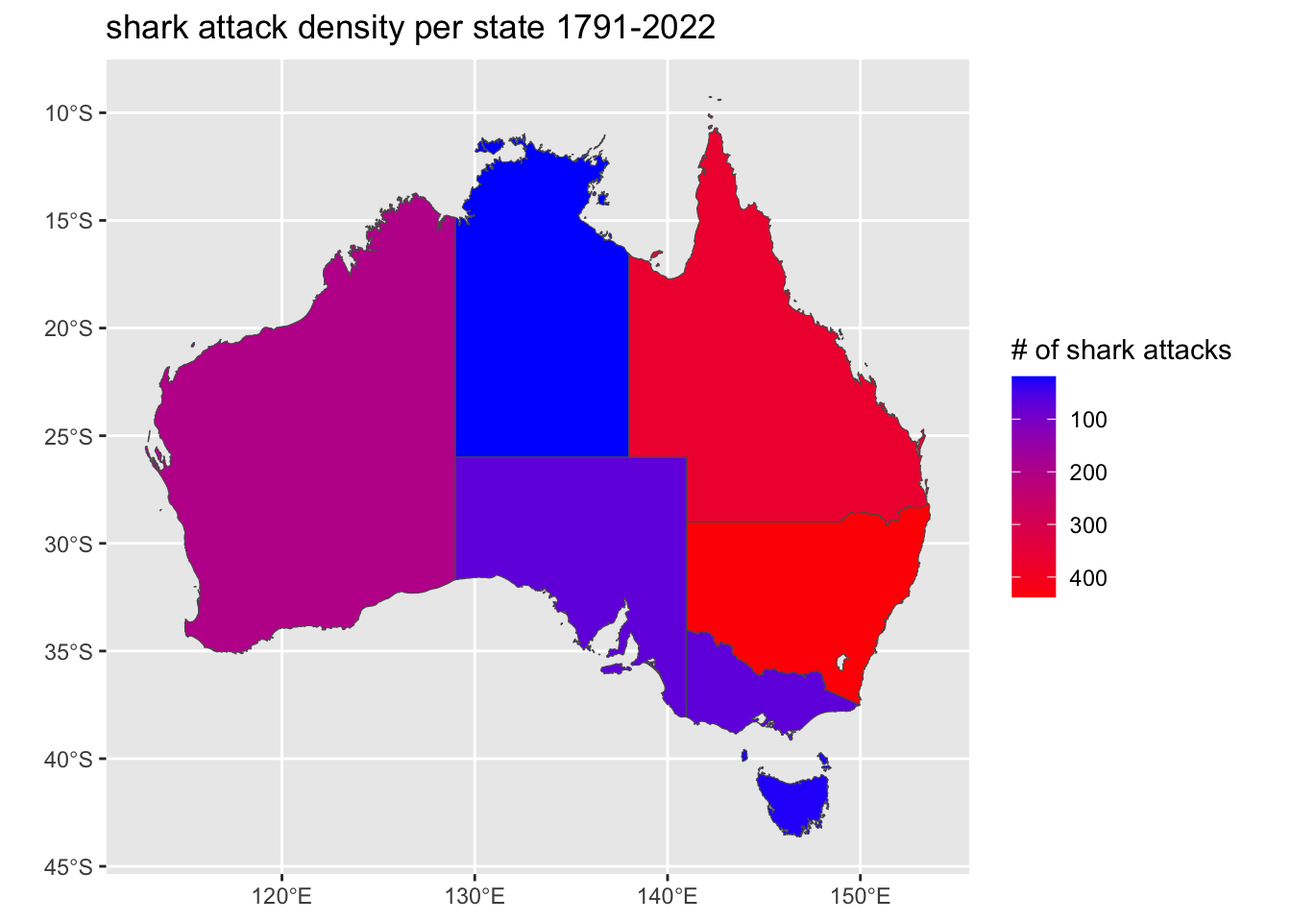
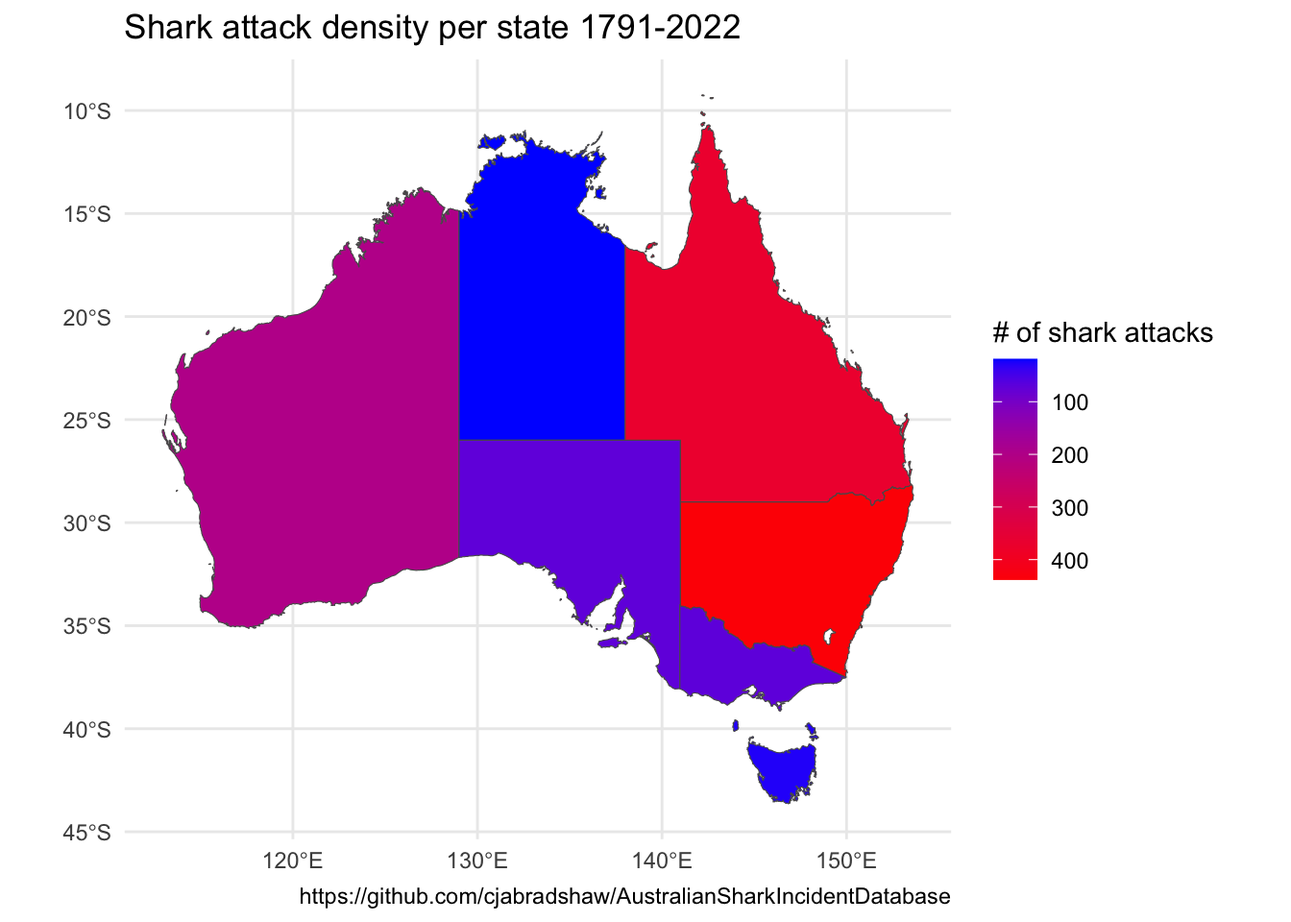
Built site for gh-pages

diff --git a/bw/soloproject.html b/bw/soloproject.html
@@ -213,37 +213,9 @@ pre > code.sourceCode > span > a:first-child::before { text-decoration: underlin
 
 
 </header><div class="cell">
-<details class="code-fold"><summary>Code</summary><div class="sourceCode cell-code" id="cb1"><pre class="sourceCode numberSource r number-lines code-with-copy"><code class="sourceCode r"><span id="cb1-1"><a href="#cb1-1"></a><span class="fu">library</span>(tidyverse)</span></code><button title="Copy to Clipboard" class="code-copy-button"><i class="bi"></i></button></pre></div>
-</details><div class="cell-output cell-output-stderr">
-<pre><code>── Attaching core tidyverse packages ──────────────────────── tidyverse 2.0.0 ──
-✔ dplyr     1.1.4     ✔ readr     2.1.5
-✔ forcats   1.0.0     ✔ stringr   1.5.1
-✔ ggplot2   3.5.1     ✔ tibble    3.2.1
-✔ lubridate 1.9.4     ✔ tidyr     1.3.1
-✔ purrr     1.0.2     
-── Conflicts ────────────────────────────────────────── tidyverse_conflicts() ──
-✖ dplyr::filter() masks stats::filter()
-✖ dplyr::lag()    masks stats::lag()
-ℹ Use the conflicted package (&lt;http://conflicted.r-lib.org/&gt;) to force all conflicts to become errors</code></pre>
-</div>
-<details class="code-fold"><summary>Code</summary><div class="sourceCode cell-code" id="cb3"><pre class="sourceCode numberSource r number-lines code-with-copy"><code class="sourceCode r"><span id="cb3-1"><a href="#cb3-1"></a>shark_attack_data <span class="ot">&lt;-</span> <span class="fu">read_tsv</span>(<span class="st">"../data/locdat2.txt"</span>)</span></code><button title="Copy to Clipboard" class="code-copy-button"><i class="bi"></i></button></pre></div>
-</details><div class="cell-output cell-output-stderr">
-<pre><code>Warning: One or more parsing issues, call `problems()` on your data frame for details,
-e.g.:
-  dat &lt;- vroom(...)
-  problems(dat)</code></pre>
-</div>
-<div class="cell-output cell-output-stderr">
-<pre><code>Rows: 1197 Columns: 18
-── Column specification ────────────────────────────────────────────────────────
-Delimiter: "\t"
-chr (10): Victim.injury, State, Location, Shark.common.name, Provoked.unprov...
-dbl  (8): Incident.day, Incident.month, Incident.year, Latitude, Longitude, ...
-
-ℹ Use `spec()` to retrieve the full column specification for this data.
-ℹ Specify the column types or set `show_col_types = FALSE` to quiet this message.</code></pre>
-</div>
-<details class="code-fold"><summary>Code</summary><div class="sourceCode cell-code" id="cb6"><pre class="sourceCode numberSource r number-lines code-with-copy"><code class="sourceCode r"><span id="cb6-1"><a href="#cb6-1"></a><span class="fu">problems</span>(shark_attack_data)</span></code><button title="Copy to Clipboard" class="code-copy-button"><i class="bi"></i></button></pre></div>
+<details class="code-fold"><summary>Code</summary><div class="sourceCode cell-code" id="cb1"><pre class="sourceCode numberSource r number-lines code-with-copy"><code class="sourceCode r"><span id="cb1-1"><a href="#cb1-1"></a><span class="fu">library</span>(tidyverse)</span>
+<span id="cb1-2"><a href="#cb1-2"></a>shark_attack_data <span class="ot">&lt;-</span> <span class="fu">read_tsv</span>(<span class="st">"../data/locdat2.txt"</span>)</span>
+<span id="cb1-3"><a href="#cb1-3"></a><span class="fu">problems</span>(shark_attack_data)</span></code><button title="Copy to Clipboard" class="code-copy-button"><i class="bi"></i></button></pre></div>
 </details><div class="cell-output cell-output-stdout">
 <pre><code># A tibble: 8 × 5
     row   col expected actual              file 
@@ -259,42 +231,44 @@ dbl  (8): Incident.day, Incident.month, Incident.year, Latitude, Longitude, ...
 </div>
 </div>
 <div class="cell">
-<details class="code-fold"><summary>Code</summary><div class="sourceCode cell-code" id="cb8"><pre class="sourceCode numberSource r number-lines code-with-copy"><code class="sourceCode r"><span id="cb8-1"><a href="#cb8-1"></a><span class="fu">library</span>(rnaturalearth)</span>
-<span id="cb8-2"><a href="#cb8-2"></a>australia_shapes <span class="ot">&lt;-</span> <span class="fu">ne_states</span>(</span>
-<span id="cb8-3"><a href="#cb8-3"></a>  <span class="at">country =</span> <span class="st">"Australia"</span>,</span>
-<span id="cb8-4"><a href="#cb8-4"></a>  <span class="at">returnclass =</span> <span class="fu">c</span>(<span class="st">"sf"</span>)</span>
-<span id="cb8-5"><a href="#cb8-5"></a>)</span></code><button title="Copy to Clipboard" class="code-copy-button"><i class="bi"></i></button></pre></div>
+<details class="code-fold"><summary>Code</summary><div class="sourceCode cell-code" id="cb3"><pre class="sourceCode numberSource r number-lines code-with-copy"><code class="sourceCode r"><span id="cb3-1"><a href="#cb3-1"></a><span class="fu">library</span>(rnaturalearth)</span>
+<span id="cb3-2"><a href="#cb3-2"></a>australia_shapes <span class="ot">&lt;-</span> <span class="fu">ne_states</span>(</span>
+<span id="cb3-3"><a href="#cb3-3"></a>  <span class="at">country =</span> <span class="st">"Australia"</span>,</span>
+<span id="cb3-4"><a href="#cb3-4"></a>  <span class="at">returnclass =</span> <span class="fu">c</span>(<span class="st">"sf"</span>)</span>
+<span id="cb3-5"><a href="#cb3-5"></a>)</span></code><button title="Copy to Clipboard" class="code-copy-button"><i class="bi"></i></button></pre></div>
 </details>
 </div>
 <div class="cell">
-<details class="code-fold"><summary>Code</summary><div class="sourceCode cell-code" id="cb9"><pre class="sourceCode numberSource r number-lines code-with-copy"><code class="sourceCode r"><span id="cb9-1"><a href="#cb9-1"></a>australia_shapes <span class="ot">&lt;-</span> australia_shapes <span class="sc">|&gt;</span></span>
-<span id="cb9-2"><a href="#cb9-2"></a>  <span class="fu">mutate</span>(<span class="at">iso_3166_2 =</span> <span class="fu">str_replace</span>(iso_3166_2, <span class="st">"AU-"</span>, <span class="st">""</span>)) <span class="sc">|&gt;</span></span>
-<span id="cb9-3"><a href="#cb9-3"></a>  <span class="fu">filter</span>(iso_3166_2 <span class="sc">!=</span> <span class="st">"X03~"</span>, iso_3166_2 <span class="sc">!=</span> <span class="st">"X02~"</span>) <span class="sc">|&gt;</span></span>
-<span id="cb9-4"><a href="#cb9-4"></a>  <span class="fu">filter</span>(adm1_code <span class="sc">!=</span> <span class="st">"AUS-2659"</span>, adm1_code <span class="sc">!=</span> <span class="st">"AUS-2653"</span>) <span class="sc">|&gt;</span></span>
-<span id="cb9-5"><a href="#cb9-5"></a>  <span class="fu">select</span>(iso_3166_2, geometry)</span></code><button title="Copy to Clipboard" class="code-copy-button"><i class="bi"></i></button></pre></div>
+<details class="code-fold"><summary>Code</summary><div class="sourceCode cell-code" id="cb4"><pre class="sourceCode numberSource r number-lines code-with-copy"><code class="sourceCode r"><span id="cb4-1"><a href="#cb4-1"></a>australia_shapes <span class="ot">&lt;-</span> australia_shapes <span class="sc">|&gt;</span></span>
+<span id="cb4-2"><a href="#cb4-2"></a>  <span class="fu">mutate</span>(<span class="at">iso_3166_2 =</span> <span class="fu">str_replace</span>(iso_3166_2, <span class="st">"AU-"</span>, <span class="st">""</span>)) <span class="sc">|&gt;</span></span>
+<span id="cb4-3"><a href="#cb4-3"></a>  <span class="fu">filter</span>(iso_3166_2 <span class="sc">!=</span> <span class="st">"X03~"</span>, iso_3166_2 <span class="sc">!=</span> <span class="st">"X02~"</span>) <span class="sc">|&gt;</span></span>
+<span id="cb4-4"><a href="#cb4-4"></a>  <span class="fu">filter</span>(adm1_code <span class="sc">!=</span> <span class="st">"AUS-2659"</span>, adm1_code <span class="sc">!=</span> <span class="st">"AUS-2653"</span>) <span class="sc">|&gt;</span></span>
+<span id="cb4-5"><a href="#cb4-5"></a>  <span class="fu">select</span>(iso_3166_2, geometry)</span></code><button title="Copy to Clipboard" class="code-copy-button"><i class="bi"></i></button></pre></div>
 </details>
 </div>
 <div class="cell">
-<details class="code-fold"><summary>Code</summary><div class="sourceCode cell-code" id="cb10"><pre class="sourceCode numberSource r number-lines code-with-copy"><code class="sourceCode r"><span id="cb10-1"><a href="#cb10-1"></a>state_shark_attacks <span class="ot">&lt;-</span> shark_attack_data <span class="sc">|&gt;</span></span>
-<span id="cb10-2"><a href="#cb10-2"></a> <span class="fu">count</span>(State) <span class="sc">|&gt;</span></span>
-<span id="cb10-3"><a href="#cb10-3"></a>  <span class="fu">filter</span>(<span class="sc">!</span><span class="fu">is.na</span>(State))</span></code><button title="Copy to Clipboard" class="code-copy-button"><i class="bi"></i></button></pre></div>
+<details class="code-fold"><summary>Code</summary><div class="sourceCode cell-code" id="cb5"><pre class="sourceCode numberSource r number-lines code-with-copy"><code class="sourceCode r"><span id="cb5-1"><a href="#cb5-1"></a>state_shark_attacks <span class="ot">&lt;-</span> shark_attack_data <span class="sc">|&gt;</span></span>
+<span id="cb5-2"><a href="#cb5-2"></a> <span class="fu">count</span>(State) <span class="sc">|&gt;</span></span>
+<span id="cb5-3"><a href="#cb5-3"></a>  <span class="fu">filter</span>(<span class="sc">!</span><span class="fu">is.na</span>(State))</span></code><button title="Copy to Clipboard" class="code-copy-button"><i class="bi"></i></button></pre></div>
 </details>
 </div>
 <div class="cell">
-<details class="code-fold"><summary>Code</summary><div class="sourceCode cell-code" id="cb11"><pre class="sourceCode numberSource r number-lines code-with-copy"><code class="sourceCode r"><span id="cb11-1"><a href="#cb11-1"></a>final_data_set <span class="ot">&lt;-</span> australia_shapes <span class="sc">|&gt;</span></span>
-<span id="cb11-2"><a href="#cb11-2"></a>   <span class="fu">left_join</span>(state_shark_attacks, <span class="fu">join_by</span>(iso_3166_2 <span class="sc">==</span> State))</span></code><button title="Copy to Clipboard" class="code-copy-button"><i class="bi"></i></button></pre></div>
+<details class="code-fold"><summary>Code</summary><div class="sourceCode cell-code" id="cb6"><pre class="sourceCode numberSource r number-lines code-with-copy"><code class="sourceCode r"><span id="cb6-1"><a href="#cb6-1"></a>final_data_set <span class="ot">&lt;-</span> australia_shapes <span class="sc">|&gt;</span></span>
+<span id="cb6-2"><a href="#cb6-2"></a>   <span class="fu">left_join</span>(state_shark_attacks, <span class="fu">join_by</span>(iso_3166_2 <span class="sc">==</span> State))</span></code><button title="Copy to Clipboard" class="code-copy-button"><i class="bi"></i></button></pre></div>
 </details>
 </div>
 <div class="cell">
-<details class="code-fold"><summary>Code</summary><div class="sourceCode cell-code" id="cb12"><pre class="sourceCode numberSource r number-lines code-with-copy"><code class="sourceCode r"><span id="cb12-1"><a href="#cb12-1"></a><span class="fu">ggplot</span>() <span class="sc">+</span></span>
-<span id="cb12-2"><a href="#cb12-2"></a>  <span class="fu">geom_sf</span>(<span class="at">data =</span> final_data_set,</span>
-<span id="cb12-3"><a href="#cb12-3"></a>          <span class="fu">aes</span>(<span class="at">fill =</span> n)) <span class="sc">+</span></span>
-<span id="cb12-4"><a href="#cb12-4"></a>  <span class="fu">scale_fill_gradient</span>( <span class="at">low =</span> <span class="st">"red"</span>, <span class="at">high =</span> <span class="st">"blue"</span>, <span class="at">trans =</span> <span class="st">"reverse"</span>) <span class="sc">+</span></span>
-<span id="cb12-5"><a href="#cb12-5"></a> </span>
-<span id="cb12-6"><a href="#cb12-6"></a> <span class="fu">labs</span>(</span>
-<span id="cb12-7"><a href="#cb12-7"></a>    <span class="at">fill =</span> <span class="st">"# of shark attacks"</span>,</span>
-<span id="cb12-8"><a href="#cb12-8"></a>    <span class="at">title =</span> <span class="st">"shark attack density per state 1791-2022"</span></span>
-<span id="cb12-9"><a href="#cb12-9"></a>  )</span></code><button title="Copy to Clipboard" class="code-copy-button"><i class="bi"></i></button></pre></div>
+<details class="code-fold"><summary>Code</summary><div class="sourceCode cell-code" id="cb7"><pre class="sourceCode numberSource r number-lines code-with-copy"><code class="sourceCode r"><span id="cb7-1"><a href="#cb7-1"></a><span class="fu">ggplot</span>() <span class="sc">+</span></span>
+<span id="cb7-2"><a href="#cb7-2"></a>  <span class="fu">geom_sf</span>(<span class="at">data =</span> final_data_set,</span>
+<span id="cb7-3"><a href="#cb7-3"></a>          <span class="fu">aes</span>(<span class="at">fill =</span> n)) <span class="sc">+</span></span>
+<span id="cb7-4"><a href="#cb7-4"></a>  <span class="fu">scale_fill_gradient</span>( <span class="at">low =</span> <span class="st">"red"</span>, <span class="at">high =</span> <span class="st">"blue"</span>, <span class="at">trans =</span> <span class="st">"reverse"</span>) <span class="sc">+</span></span>
+<span id="cb7-5"><a href="#cb7-5"></a> </span>
+<span id="cb7-6"><a href="#cb7-6"></a> <span class="fu">labs</span>(</span>
+<span id="cb7-7"><a href="#cb7-7"></a>    <span class="at">fill =</span> <span class="st">"# of shark attacks"</span>,</span>
+<span id="cb7-8"><a href="#cb7-8"></a>    <span class="at">title =</span> <span class="st">"Shark attack density per state 1791-2022"</span>,</span>
+<span id="cb7-9"><a href="#cb7-9"></a>    <span class="at">caption =</span> <span class="st">"https://github.com/cjabradshaw/AustralianSharkIncidentDatabase"</span></span>
+<span id="cb7-10"><a href="#cb7-10"></a>  ) <span class="sc">+</span></span>
+<span id="cb7-11"><a href="#cb7-11"></a>  <span class="fu">theme_minimal</span>()</span></code><button title="Copy to Clipboard" class="code-copy-button"><i class="bi"></i></button></pre></div>
 </details><div class="cell-output-display">
 <div>
 <figure class="figure"><p><img src="soloproject_files/figure-html/unnamed-chunk-6-1.png" class="img-fluid figure-img" width="672"></p>
@@ -934,60 +908,62 @@ window.document.addEventListener("DOMContentLoaded", function (event) {
   <div class="nav-page nav-page-next">
   </div>
 </nav><div class="modal fade" id="quarto-embedded-source-code-modal" tabindex="-1" aria-labelledby="quarto-embedded-source-code-modal-label" aria-hidden="true"><div class="modal-dialog modal-dialog-scrollable"><div class="modal-content"><div class="modal-header"><h5 class="modal-title" id="quarto-embedded-source-code-modal-label">Source Code</h5><button class="btn-close" data-bs-dismiss="modal"></button></div><div class="modal-body"><div class="">
-<div class="sourceCode" id="cb13" data-shortcodes="false"><pre class="sourceCode numberSource markdown number-lines code-with-copy"><code class="sourceCode markdown"><span id="cb13-1"><a href="#cb13-1"></a><span class="co">---</span></span>
-<span id="cb13-2"><a href="#cb13-2"></a><span class="an">title:</span><span class="co"> "soloproject"</span></span>
-<span id="cb13-3"><a href="#cb13-3"></a><span class="an">format:</span><span class="co"> html</span></span>
-<span id="cb13-4"><a href="#cb13-4"></a><span class="co">---</span></span>
-<span id="cb13-5"><a href="#cb13-5"></a></span>
-<span id="cb13-8"><a href="#cb13-8"></a><span class="in">```{r}</span></span>
-<span id="cb13-9"><a href="#cb13-9"></a><span class="fu">library</span>(tidyverse)</span>
-<span id="cb13-10"><a href="#cb13-10"></a>shark_attack_data <span class="ot">&lt;-</span> <span class="fu">read_tsv</span>(<span class="st">"../data/locdat2.txt"</span>)</span>
-<span id="cb13-11"><a href="#cb13-11"></a><span class="fu">problems</span>(shark_attack_data)</span>
-<span id="cb13-12"><a href="#cb13-12"></a><span class="in">```</span></span>
-<span id="cb13-13"><a href="#cb13-13"></a></span>
-<span id="cb13-14"><a href="#cb13-14"></a></span>
-<span id="cb13-17"><a href="#cb13-17"></a><span class="in">```{r}</span></span>
-<span id="cb13-18"><a href="#cb13-18"></a><span class="fu">library</span>(rnaturalearth)</span>
-<span id="cb13-19"><a href="#cb13-19"></a>australia_shapes <span class="ot">&lt;-</span> <span class="fu">ne_states</span>(</span>
-<span id="cb13-20"><a href="#cb13-20"></a>  <span class="at">country =</span> <span class="st">"Australia"</span>,</span>
-<span id="cb13-21"><a href="#cb13-21"></a>  <span class="at">returnclass =</span> <span class="fu">c</span>(<span class="st">"sf"</span>)</span>
-<span id="cb13-22"><a href="#cb13-22"></a>)</span>
-<span id="cb13-23"><a href="#cb13-23"></a></span>
-<span id="cb13-24"><a href="#cb13-24"></a></span>
-<span id="cb13-25"><a href="#cb13-25"></a><span class="in">```</span></span>
-<span id="cb13-26"><a href="#cb13-26"></a></span>
-<span id="cb13-27"><a href="#cb13-27"></a></span>
-<span id="cb13-30"><a href="#cb13-30"></a><span class="in">```{r}</span></span>
-<span id="cb13-31"><a href="#cb13-31"></a>australia_shapes <span class="ot">&lt;-</span> australia_shapes <span class="sc">|&gt;</span></span>
-<span id="cb13-32"><a href="#cb13-32"></a>  <span class="fu">mutate</span>(<span class="at">iso_3166_2 =</span> <span class="fu">str_replace</span>(iso_3166_2, <span class="st">"AU-"</span>, <span class="st">""</span>)) <span class="sc">|&gt;</span></span>
-<span id="cb13-33"><a href="#cb13-33"></a>  <span class="fu">filter</span>(iso_3166_2 <span class="sc">!=</span> <span class="st">"X03~"</span>, iso_3166_2 <span class="sc">!=</span> <span class="st">"X02~"</span>) <span class="sc">|&gt;</span></span>
-<span id="cb13-34"><a href="#cb13-34"></a>  <span class="fu">filter</span>(adm1_code <span class="sc">!=</span> <span class="st">"AUS-2659"</span>, adm1_code <span class="sc">!=</span> <span class="st">"AUS-2653"</span>) <span class="sc">|&gt;</span></span>
-<span id="cb13-35"><a href="#cb13-35"></a>  <span class="fu">select</span>(iso_3166_2, geometry)</span>
-<span id="cb13-36"><a href="#cb13-36"></a></span>
-<span id="cb13-37"><a href="#cb13-37"></a><span class="in">```</span></span>
-<span id="cb13-38"><a href="#cb13-38"></a></span>
-<span id="cb13-41"><a href="#cb13-41"></a><span class="in">```{r}</span></span>
-<span id="cb13-42"><a href="#cb13-42"></a>state_shark_attacks <span class="ot">&lt;-</span> shark_attack_data <span class="sc">|&gt;</span></span>
-<span id="cb13-43"><a href="#cb13-43"></a> <span class="fu">count</span>(State) <span class="sc">|&gt;</span></span>
-<span id="cb13-44"><a href="#cb13-44"></a>  <span class="fu">filter</span>(<span class="sc">!</span><span class="fu">is.na</span>(State))</span>
-<span id="cb13-45"><a href="#cb13-45"></a><span class="in">```</span></span>
-<span id="cb13-46"><a href="#cb13-46"></a></span>
-<span id="cb13-49"><a href="#cb13-49"></a><span class="in">```{r}</span></span>
-<span id="cb13-50"><a href="#cb13-50"></a>final_data_set <span class="ot">&lt;-</span> australia_shapes <span class="sc">|&gt;</span></span>
-<span id="cb13-51"><a href="#cb13-51"></a>   <span class="fu">left_join</span>(state_shark_attacks, <span class="fu">join_by</span>(iso_3166_2 <span class="sc">==</span> State))</span>
-<span id="cb13-52"><a href="#cb13-52"></a><span class="in">```</span></span>
-<span id="cb13-53"><a href="#cb13-53"></a></span>
-<span id="cb13-56"><a href="#cb13-56"></a><span class="in">```{r}</span></span>
-<span id="cb13-57"><a href="#cb13-57"></a><span class="fu">ggplot</span>() <span class="sc">+</span></span>
-<span id="cb13-58"><a href="#cb13-58"></a>  <span class="fu">geom_sf</span>(<span class="at">data =</span> final_data_set,</span>
-<span id="cb13-59"><a href="#cb13-59"></a>          <span class="fu">aes</span>(<span class="at">fill =</span> n)) <span class="sc">+</span></span>
-<span id="cb13-60"><a href="#cb13-60"></a>  <span class="fu">scale_fill_gradient</span>( <span class="at">low =</span> <span class="st">"red"</span>, <span class="at">high =</span> <span class="st">"blue"</span>, <span class="at">trans =</span> <span class="st">"reverse"</span>) <span class="sc">+</span></span>
-<span id="cb13-61"><a href="#cb13-61"></a> </span>
-<span id="cb13-62"><a href="#cb13-62"></a> <span class="fu">labs</span>(</span>
-<span id="cb13-63"><a href="#cb13-63"></a>    <span class="at">fill =</span> <span class="st">"# of shark attacks"</span>,</span>
-<span id="cb13-64"><a href="#cb13-64"></a>    <span class="at">title =</span> <span class="st">"shark attack density per state 1791-2022"</span></span>
-<span id="cb13-65"><a href="#cb13-65"></a>  )</span>
-<span id="cb13-66"><a href="#cb13-66"></a><span class="in">```</span></span>
+<div class="sourceCode" id="cb8" data-shortcodes="false"><pre class="sourceCode numberSource markdown number-lines code-with-copy"><code class="sourceCode markdown"><span id="cb8-1"><a href="#cb8-1"></a><span class="co">---</span></span>
+<span id="cb8-2"><a href="#cb8-2"></a><span class="an">title:</span><span class="co"> "soloproject"</span></span>
+<span id="cb8-3"><a href="#cb8-3"></a><span class="an">format:</span><span class="co"> html</span></span>
+<span id="cb8-4"><a href="#cb8-4"></a><span class="co">---</span></span>
+<span id="cb8-5"><a href="#cb8-5"></a></span>
+<span id="cb8-8"><a href="#cb8-8"></a><span class="in">```{r}</span></span>
+<span id="cb8-9"><a href="#cb8-9"></a><span class="fu">library</span>(tidyverse)</span>
+<span id="cb8-10"><a href="#cb8-10"></a>shark_attack_data <span class="ot">&lt;-</span> <span class="fu">read_tsv</span>(<span class="st">"../data/locdat2.txt"</span>)</span>
+<span id="cb8-11"><a href="#cb8-11"></a><span class="fu">problems</span>(shark_attack_data)</span>
+<span id="cb8-12"><a href="#cb8-12"></a><span class="in">```</span></span>
+<span id="cb8-13"><a href="#cb8-13"></a></span>
+<span id="cb8-14"><a href="#cb8-14"></a></span>
+<span id="cb8-17"><a href="#cb8-17"></a><span class="in">```{r}</span></span>
+<span id="cb8-18"><a href="#cb8-18"></a><span class="fu">library</span>(rnaturalearth)</span>
+<span id="cb8-19"><a href="#cb8-19"></a>australia_shapes <span class="ot">&lt;-</span> <span class="fu">ne_states</span>(</span>
+<span id="cb8-20"><a href="#cb8-20"></a>  <span class="at">country =</span> <span class="st">"Australia"</span>,</span>
+<span id="cb8-21"><a href="#cb8-21"></a>  <span class="at">returnclass =</span> <span class="fu">c</span>(<span class="st">"sf"</span>)</span>
+<span id="cb8-22"><a href="#cb8-22"></a>)</span>
+<span id="cb8-23"><a href="#cb8-23"></a></span>
+<span id="cb8-24"><a href="#cb8-24"></a></span>
+<span id="cb8-25"><a href="#cb8-25"></a><span class="in">```</span></span>
+<span id="cb8-26"><a href="#cb8-26"></a></span>
+<span id="cb8-27"><a href="#cb8-27"></a></span>
+<span id="cb8-30"><a href="#cb8-30"></a><span class="in">```{r}</span></span>
+<span id="cb8-31"><a href="#cb8-31"></a>australia_shapes <span class="ot">&lt;-</span> australia_shapes <span class="sc">|&gt;</span></span>
+<span id="cb8-32"><a href="#cb8-32"></a>  <span class="fu">mutate</span>(<span class="at">iso_3166_2 =</span> <span class="fu">str_replace</span>(iso_3166_2, <span class="st">"AU-"</span>, <span class="st">""</span>)) <span class="sc">|&gt;</span></span>
+<span id="cb8-33"><a href="#cb8-33"></a>  <span class="fu">filter</span>(iso_3166_2 <span class="sc">!=</span> <span class="st">"X03~"</span>, iso_3166_2 <span class="sc">!=</span> <span class="st">"X02~"</span>) <span class="sc">|&gt;</span></span>
+<span id="cb8-34"><a href="#cb8-34"></a>  <span class="fu">filter</span>(adm1_code <span class="sc">!=</span> <span class="st">"AUS-2659"</span>, adm1_code <span class="sc">!=</span> <span class="st">"AUS-2653"</span>) <span class="sc">|&gt;</span></span>
+<span id="cb8-35"><a href="#cb8-35"></a>  <span class="fu">select</span>(iso_3166_2, geometry)</span>
+<span id="cb8-36"><a href="#cb8-36"></a></span>
+<span id="cb8-37"><a href="#cb8-37"></a><span class="in">```</span></span>
+<span id="cb8-38"><a href="#cb8-38"></a></span>
+<span id="cb8-41"><a href="#cb8-41"></a><span class="in">```{r}</span></span>
+<span id="cb8-42"><a href="#cb8-42"></a>state_shark_attacks <span class="ot">&lt;-</span> shark_attack_data <span class="sc">|&gt;</span></span>
+<span id="cb8-43"><a href="#cb8-43"></a> <span class="fu">count</span>(State) <span class="sc">|&gt;</span></span>
+<span id="cb8-44"><a href="#cb8-44"></a>  <span class="fu">filter</span>(<span class="sc">!</span><span class="fu">is.na</span>(State))</span>
+<span id="cb8-45"><a href="#cb8-45"></a><span class="in">```</span></span>
+<span id="cb8-46"><a href="#cb8-46"></a></span>
+<span id="cb8-49"><a href="#cb8-49"></a><span class="in">```{r}</span></span>
+<span id="cb8-50"><a href="#cb8-50"></a>final_data_set <span class="ot">&lt;-</span> australia_shapes <span class="sc">|&gt;</span></span>
+<span id="cb8-51"><a href="#cb8-51"></a>   <span class="fu">left_join</span>(state_shark_attacks, <span class="fu">join_by</span>(iso_3166_2 <span class="sc">==</span> State))</span>
+<span id="cb8-52"><a href="#cb8-52"></a><span class="in">```</span></span>
+<span id="cb8-53"><a href="#cb8-53"></a></span>
+<span id="cb8-56"><a href="#cb8-56"></a><span class="in">```{r}</span></span>
+<span id="cb8-57"><a href="#cb8-57"></a><span class="fu">ggplot</span>() <span class="sc">+</span></span>
+<span id="cb8-58"><a href="#cb8-58"></a>  <span class="fu">geom_sf</span>(<span class="at">data =</span> final_data_set,</span>
+<span id="cb8-59"><a href="#cb8-59"></a>          <span class="fu">aes</span>(<span class="at">fill =</span> n)) <span class="sc">+</span></span>
+<span id="cb8-60"><a href="#cb8-60"></a>  <span class="fu">scale_fill_gradient</span>( <span class="at">low =</span> <span class="st">"red"</span>, <span class="at">high =</span> <span class="st">"blue"</span>, <span class="at">trans =</span> <span class="st">"reverse"</span>) <span class="sc">+</span></span>
+<span id="cb8-61"><a href="#cb8-61"></a> </span>
+<span id="cb8-62"><a href="#cb8-62"></a> <span class="fu">labs</span>(</span>
+<span id="cb8-63"><a href="#cb8-63"></a>    <span class="at">fill =</span> <span class="st">"# of shark attacks"</span>,</span>
+<span id="cb8-64"><a href="#cb8-64"></a>    <span class="at">title =</span> <span class="st">"Shark attack density per state 1791-2022"</span>,</span>
+<span id="cb8-65"><a href="#cb8-65"></a>    <span class="at">caption =</span> <span class="st">"https://github.com/cjabradshaw/AustralianSharkIncidentDatabase"</span></span>
+<span id="cb8-66"><a href="#cb8-66"></a>  ) <span class="sc">+</span></span>
+<span id="cb8-67"><a href="#cb8-67"></a>  <span class="fu">theme_minimal</span>()</span>
+<span id="cb8-68"><a href="#cb8-68"></a><span class="in">```</span></span>
 </code><button title="Copy to Clipboard" class="code-copy-button" data-in-quarto-modal=""><i class="bi"></i></button></pre></div>
 </div></div></div></div></div>
 </div> <!-- /content -->
